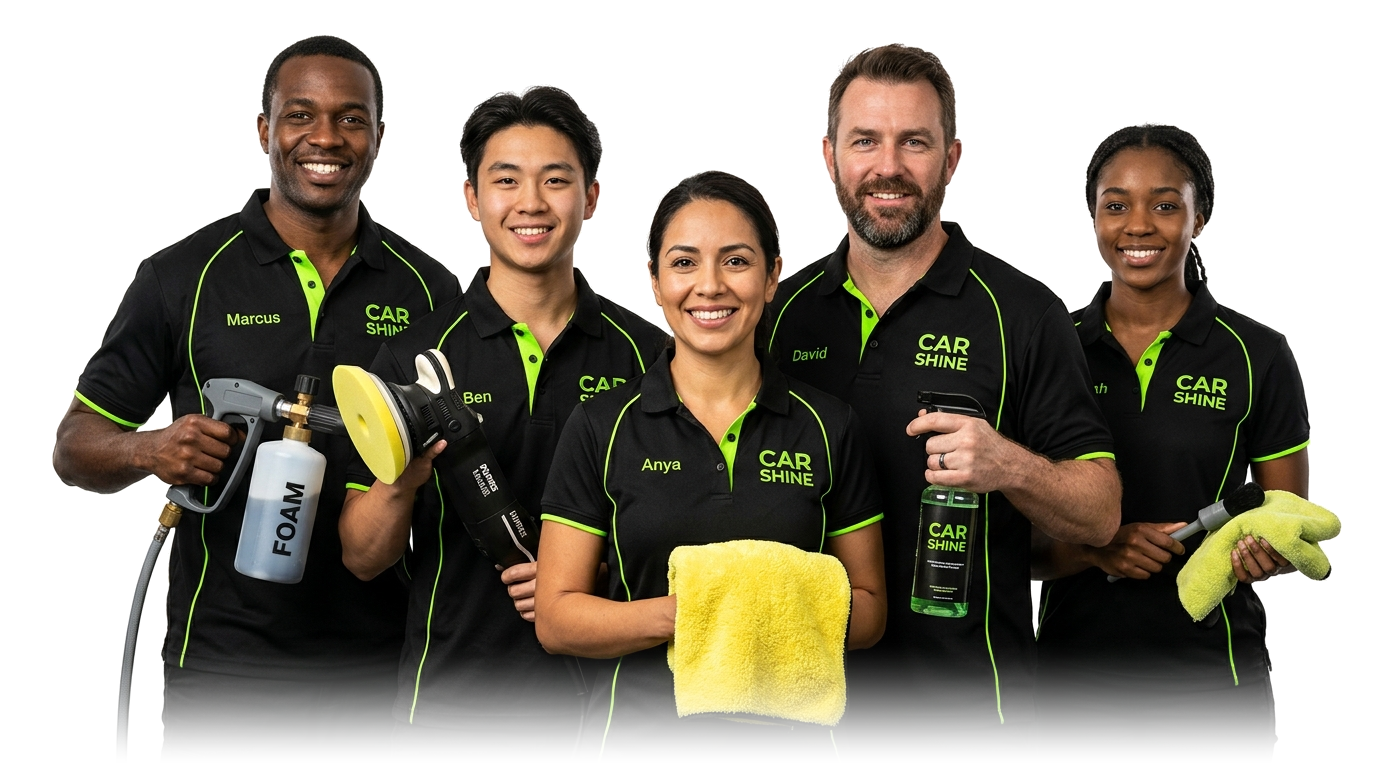
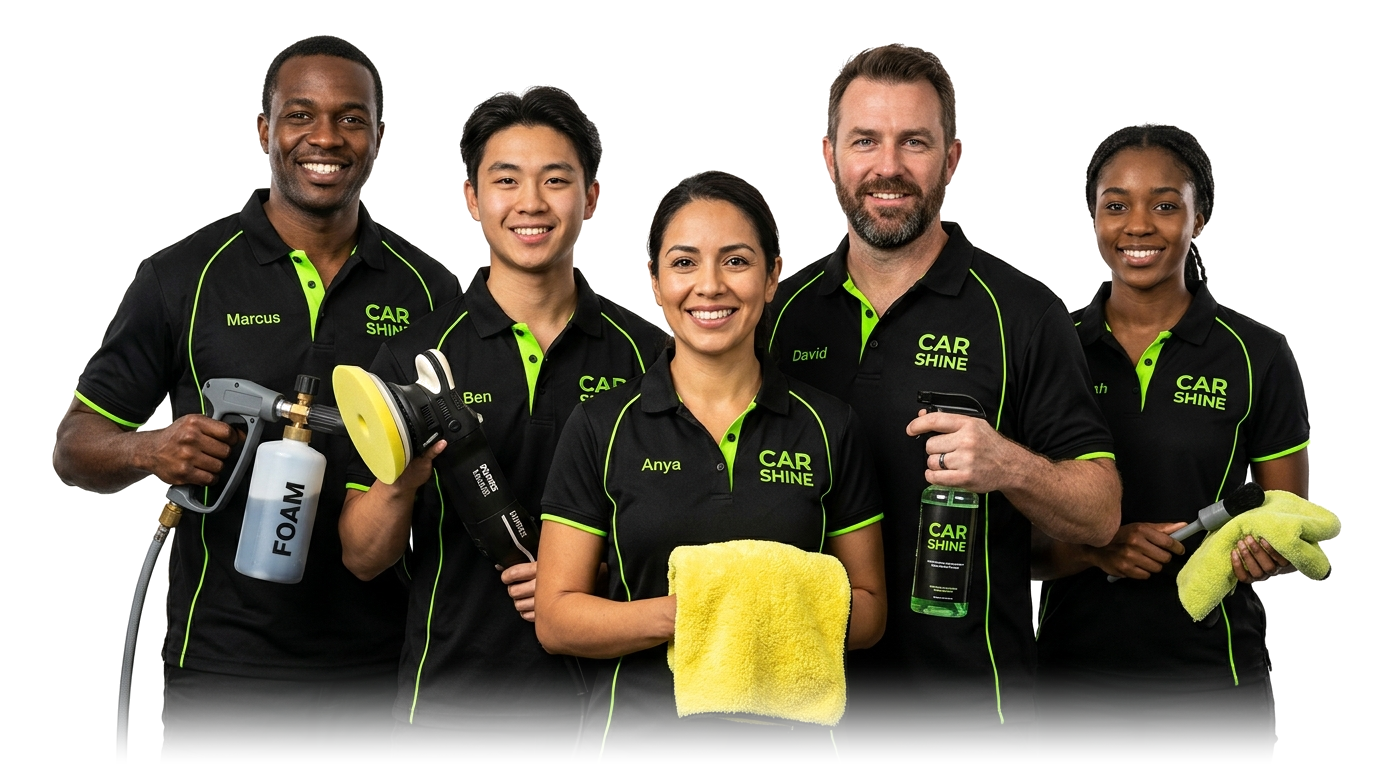
Remove drop-shadow rectangular box artifact, clean alpha transparency, and increase technician group image size to 680px

Changed region(s): [[0.0938, 0.8438, 0.9375, 0.9375]]

diff --git a/contact.html b/contact.html
@@ -187,20 +187,17 @@
         </div>
 
         <div class="lg:col-span-6 relative flex items-center justify-center">
-          <!-- Expanded Ambient Halo Glow behind technicians -->
-          <div class="absolute w-96 h-96 sm:w-[460px] sm:h-[460px] bg-[#D6FF36]/25 dark:bg-[#D6FF36]/15 rounded-full blur-[110px] pointer-events-none -z-0"></div>
+          <!-- Ambient Halo Glow behind technicians (pure radial glow without rectangular bounds) -->
+          <div class="absolute w-[440px] h-[440px] sm:w-[540px] sm:h-[540px] bg-[#D6FF36]/15 dark:bg-[#D6FF36]/12 rounded-full blur-[120px] pointer-events-none -z-0"></div>
 
-          <!-- 5-Technician Group Cutout (Increased Size & Feathered Bottom Edge) -->
-          <div class="relative z-10 w-full max-w-xl sm:max-w-2xl lg:max-w-[620px] flex flex-col items-center">
-            <!-- Mask container with CSS linear-gradient fade mask for ultra-smooth edge blending -->
-            <div class="w-full relative [mask-image:linear-gradient(to_bottom,black_75%,transparent_100%)] [-webkit-mask-image:linear-gradient(to_bottom,black_75%,transparent_100%)]">
-              <img src="assets/images/technicians-group.png" 
-                   alt="CAR SHINE 5-Member Certified Detailing Technicians Team" 
-                   class="w-full h-auto max-h-[480px] sm:max-h-[520px] lg:max-h-[560px] object-contain scale-105 sm:scale-110 drop-shadow-[0_25px_40px_rgba(0,0,0,0.3)] dark:drop-shadow-[0_30px_50px_rgba(0,0,0,0.85)] hover:scale-[1.12] transition-transform duration-500">
-            </div>
+          <!-- 5-Technician Group Cutout (Increased Size & 100% Pure Alpha Transparency - Zero Border Box) -->
+          <div class="relative z-10 w-full max-w-2xl lg:max-w-[680px] flex flex-col items-center">
+            <img src="assets/images/technicians-group.png" 
+                 alt="CAR SHINE 5-Member Certified Detailing Technicians Team" 
+                 class="w-full h-auto max-h-[520px] sm:max-h-[580px] lg:max-h-[620px] object-contain scale-110 sm:scale-115 hover:scale-[1.18] transition-transform duration-500">
             
-            <!-- Floating Trust Badge Pill (Subtly overlaps the soft bottom blend) -->
-            <div class="inline-flex items-center gap-3 px-4 py-2 rounded-2xl bg-white/95 dark:bg-[#1A232C]/95 border border-gray-200/80 dark:border-[#252E35] shadow-xl backdrop-blur-md -mt-6 sm:-mt-8 z-20">
+            <!-- Floating Trust Badge Pill -->
+            <div class="inline-flex items-center gap-3 px-4 py-2 rounded-2xl bg-white/95 dark:bg-[#1A232C]/95 border border-gray-200/80 dark:border-[#252E35] shadow-xl backdrop-blur-md -mt-7 sm:-mt-10 z-20">
               <div class="w-8 h-8 rounded-xl bg-[#D6FF36] flex items-center justify-center text-[#101820]">
                 <i data-lucide="shield-check" class="w-4 h-4"></i>
               </div>
